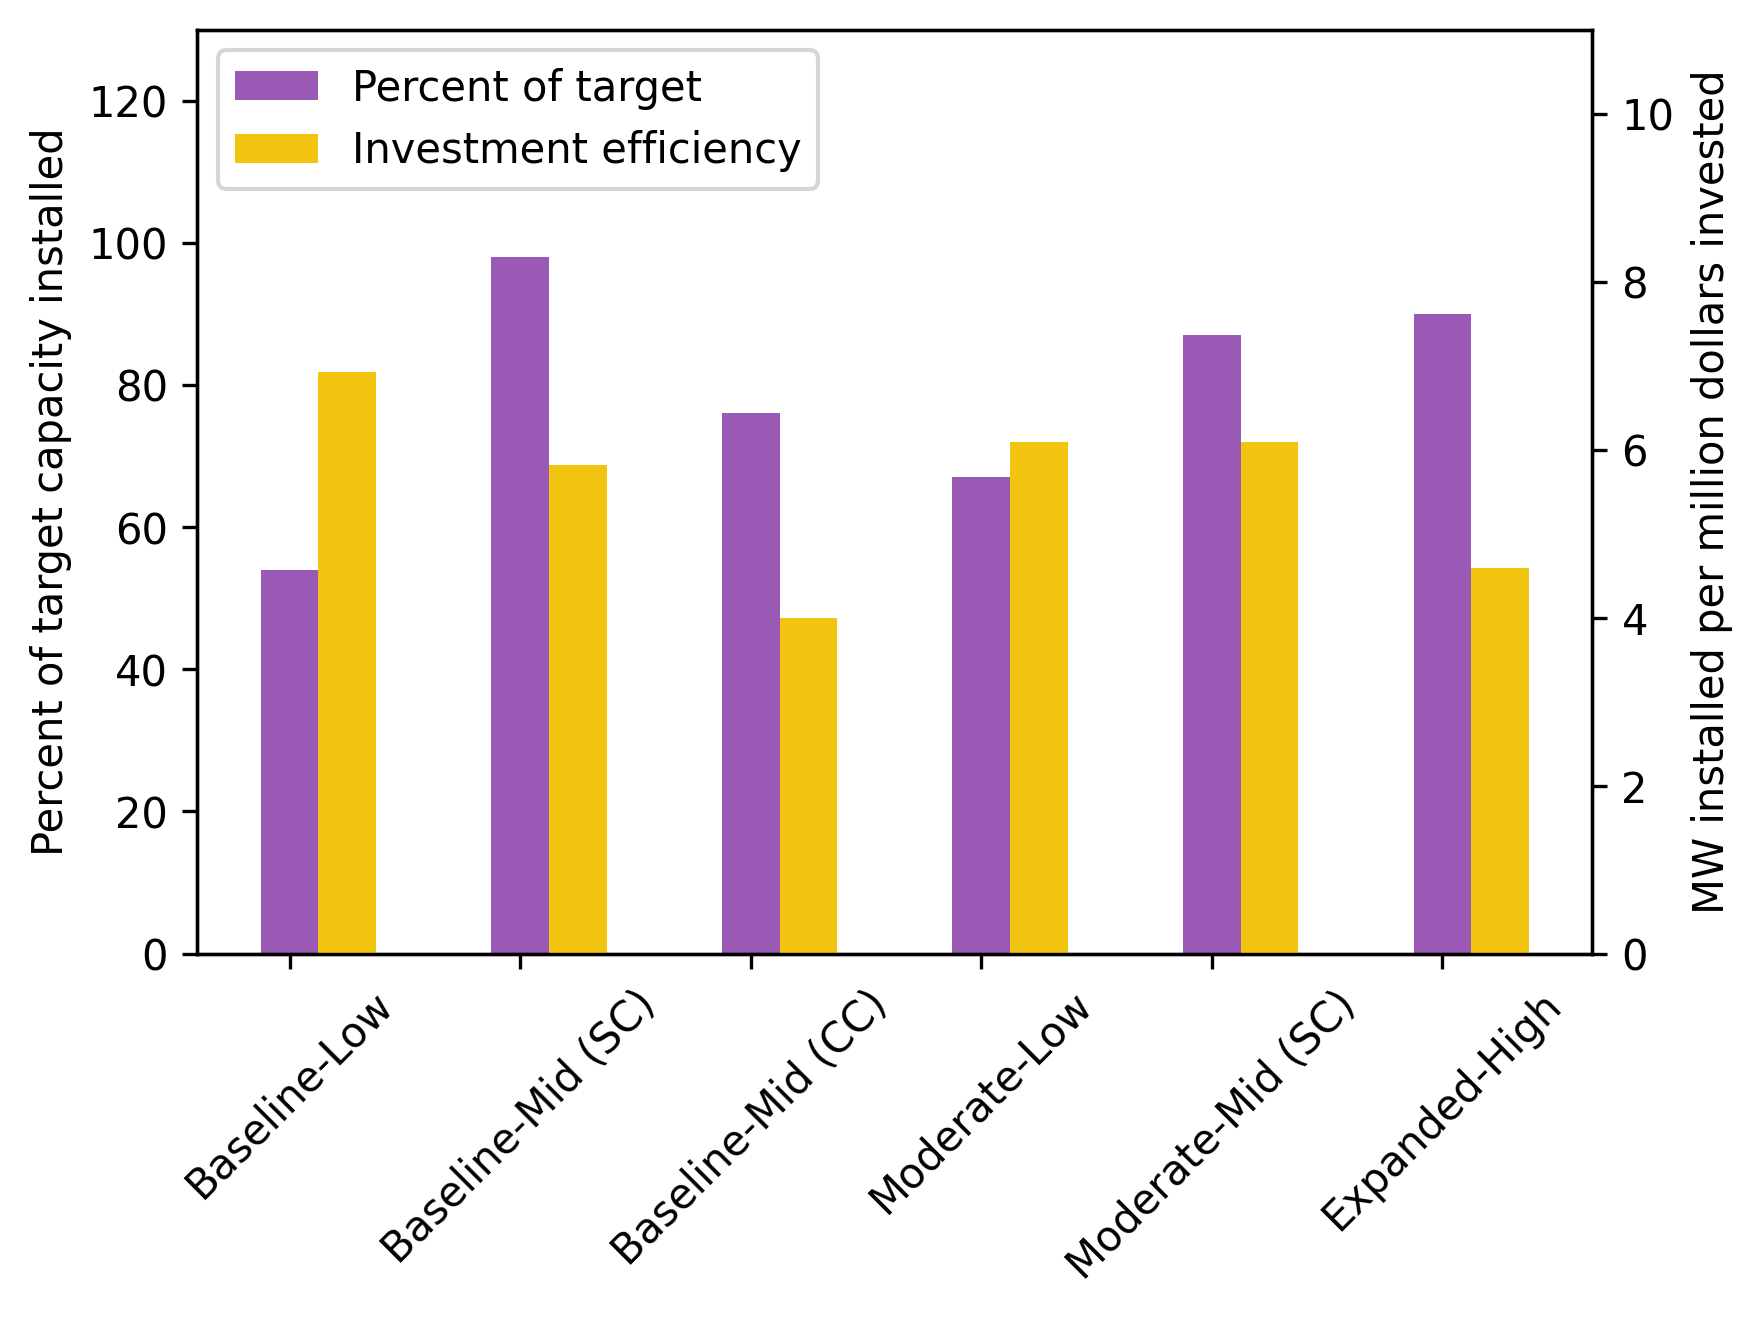
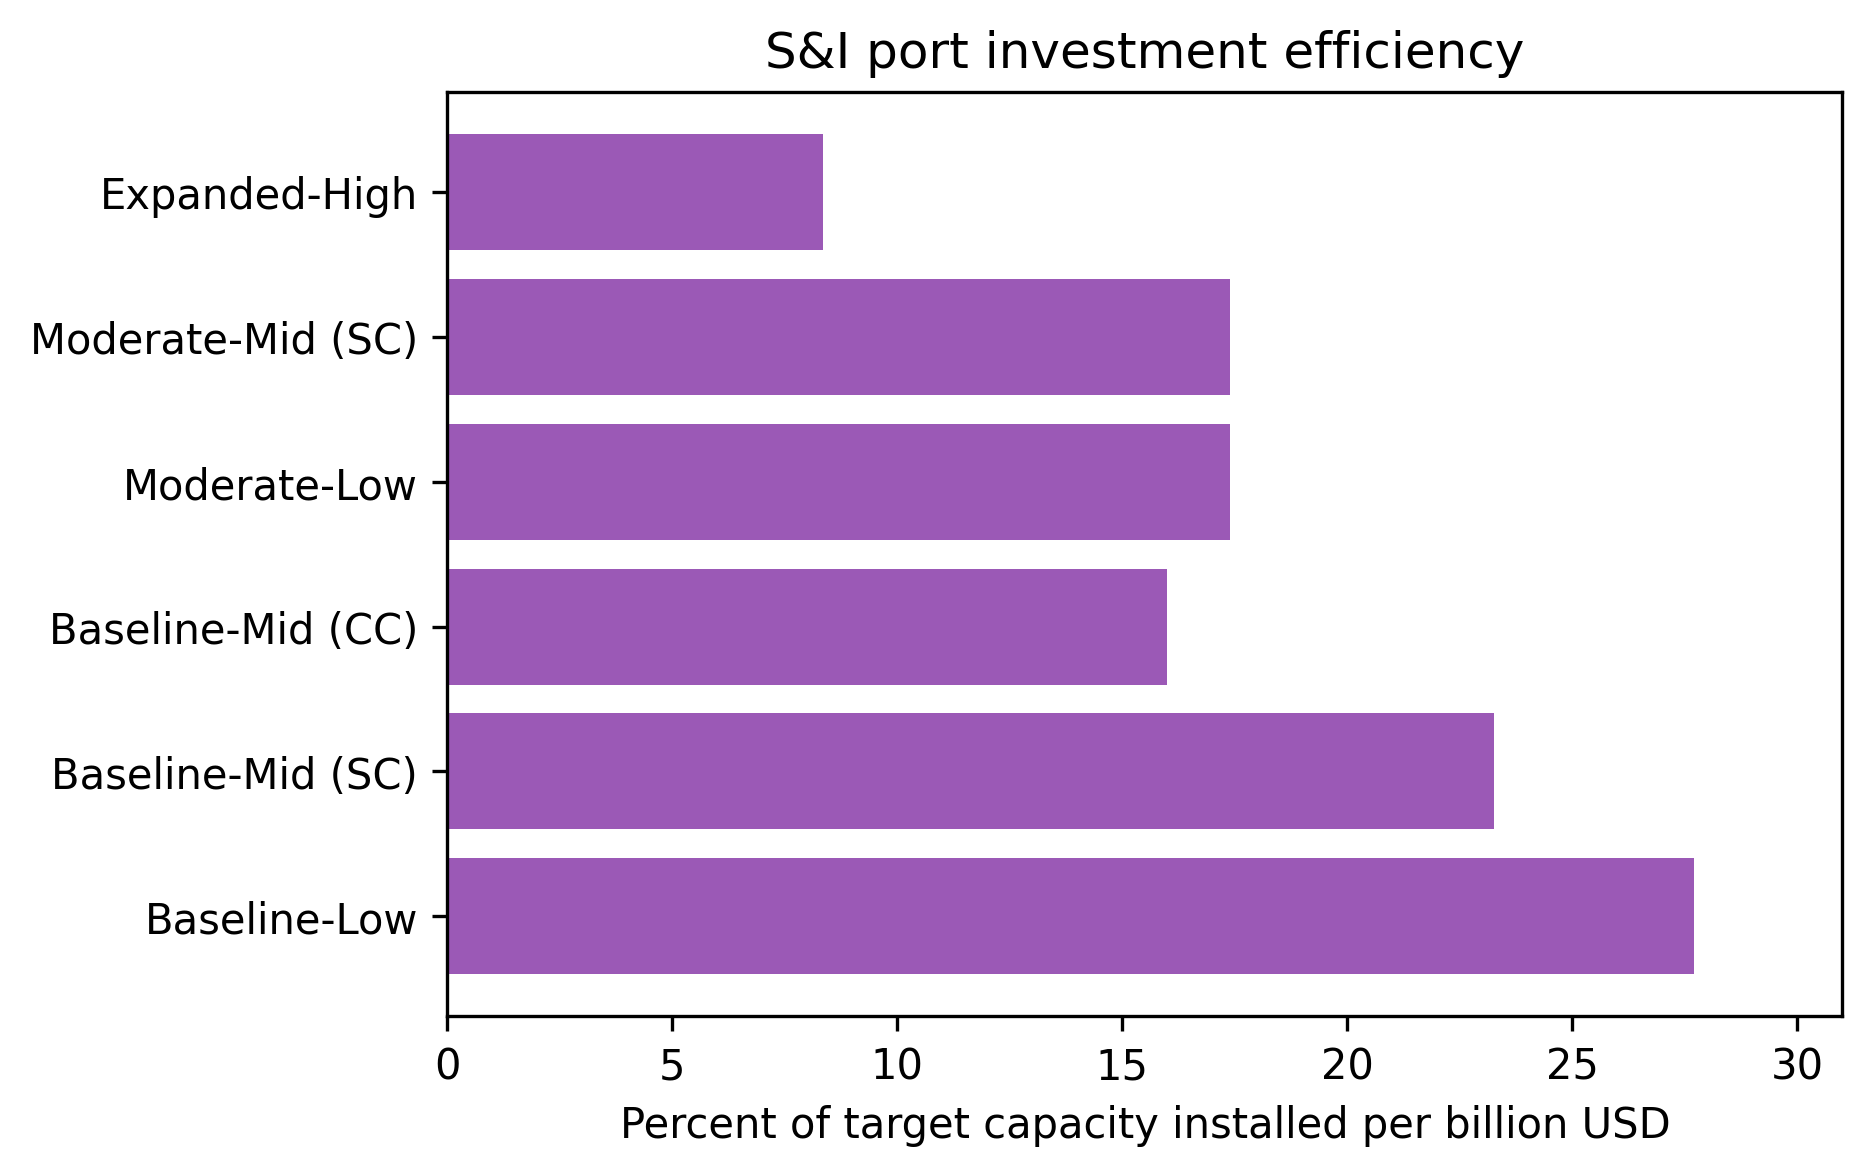
updated per-dollar plot

diff --git a/analysis/plot_routines.py b/analysis/plot_routines.py
@@ -415,12 +415,12 @@ def plot_investments(cap_dir, scenarios):
 def plot_per_dollar(scenarios, percent_installed, target_capacity):
     fig = plt.figure(figsize=(6, 4))
     ax1 = fig.add_subplot(111)
-    ax2 = ax1.twinx()
+    #ax2 = ax1.twinx()
     width = 0.25
 
     x_ind = np.arange(len(scenarios))
-    ax1_ind = np.arange(0, 126, 25)
-    ax2_ind = np.arange(0, 11, 1)
+    ax1_ind = np.arange(0, 31, 5)
+    #ax2_ind = np.arange(0, 11, 1)
     width = 0.25
 
     target = [target_capacity[s.split('-')[0]] for s in scenarios]
@@ -442,27 +442,29 @@ def plot_per_dollar(scenarios, percent_installed, target_capacity):
         invest_list.append(inv_df[s][by_year])
 
     per_dollar = []
-    for c, d in zip(installed, invest_list):
-        installed_per_dollar = c/d
-        per_dollar.append(installed_per_dollar)
+    for c, d in zip(percents, invest_list):
+        percent_per_dollar = c/d
+        per_dollar.append(percent_per_dollar)
 
-    ax1.bar(x_ind, percents, width, color='#9B59B6')
-    ax1.set_ylabel('Percent of target capacity installed')
-    ax1.set_xticks(x_ind)
+    ax1.barh(scenarios, width=per_dollar, color='#9B59B6')
+    ax1.set_xlabel('Percent of target capacity installed per billion USD')
+#    ax1.set_xticks(ax1_ind)
     plot_names = scenarios
-    ax1.set_xticklabels(plot_names, rotation=45)
-    ax1.set_ylim([0,130])
+    ax1.set_yticklabels(plot_names)
+    ax1.set_xlim([0,31])
+    ax1.set_title('S&I port investment efficiency')
 
-    ax2.bar(x_ind+width, per_dollar, width, color='#F1C40F')
-    ax2.set_ylabel('MW installed per million dollars invested')
-    ax2.set_ylim([0,11])
+    #ax2.bar(x_ind+width, per_dollar, width, color='#F1C40F')
+    #ax2.set_ylabel('Percent of target installed per million dollars invested')
+    #ax2.set_ylim([0,11])
 
     handles = [
         Patch(facecolor=color, label=label)
-        for label, color in zip(['Percent of target', 'Investment efficiency'], ['#9B59B6', '#F1C40F'])
+#        for label, color in zip(['Percent of target', 'Investment efficiency'], ['#9B59B6', '#F1C40F'])
+        for label, color in zip(['Percent of target'], ['#9B59B6'])
     ]
 
-    ax1.legend(handles=handles, loc='upper left')
+#    ax1.legend(handles=handles, loc='upper left')
 
     figsave = 'results/Summary Plots/per_dollar.png'
     fig.savefig(figsave, bbox_inches='tight', dpi=300)
